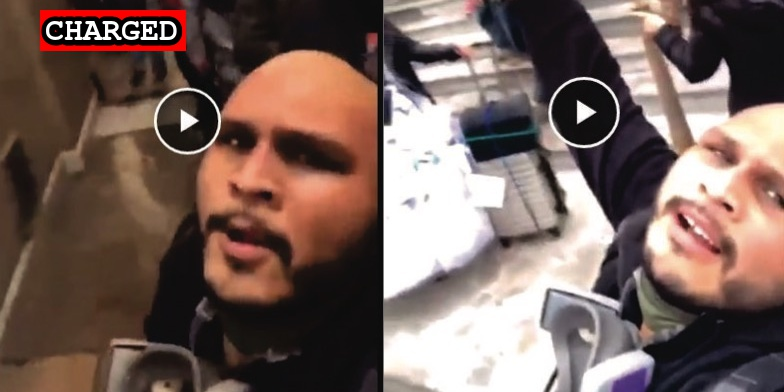
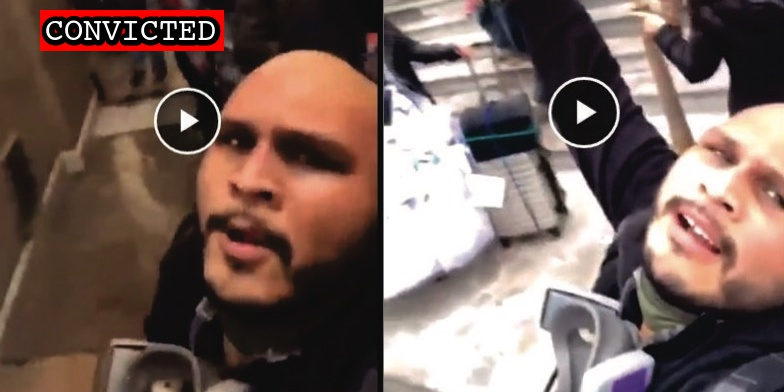
Guilty Plea

Changed region(s): [[0.0612, 0.0, 0.3061, 0.1531]]

diff --git a/docs/_suspects/moises-romero.md b/docs/_suspects/moises-romero.md
@@ -4,16 +4,16 @@ lastName: Romero
 hashtag:
 aka:
 residence: Florida
-status: Charged
+status: Convicted
 date: 2021-09-23
 charged: 2021-09-23
 indicted:
-convicted:
+convicted: 2021-03-16
 sentenced:
 dismissed:
 deceased:
-plea_hearing:
-sentencing:
+plea_hearing: 2021-03-16
+sentencing: 2022-07-22
 age:
 occupation: Nurse
 affiliations:
@@ -34,8 +34,13 @@ published: true
 caseNumber: 1:21-mj-612
 videos:
 charges:
+  - code: 18 USC § 231(a)(3)
+    title: Civil Disorder
+    url: https://www.law.cornell.edu/uscode/text/18/231
+    felony: true
 sentence:
 ---
+
 - [News Report](https://wsvn.com/news/local/2-south-floridians-post-photos-videos-of-themselves-at-u-s-capitol-riot/)
 - [Complaint](https://extremism.gwu.edu/sites/g/files/zaxdzs2191/f/Moises%20Romero%20Criminal%20Complaint.pdf)
 - [Statement of Facts](https://www.justice.gov/usao-dc/case-multi-defendant/file/1440791/download)
